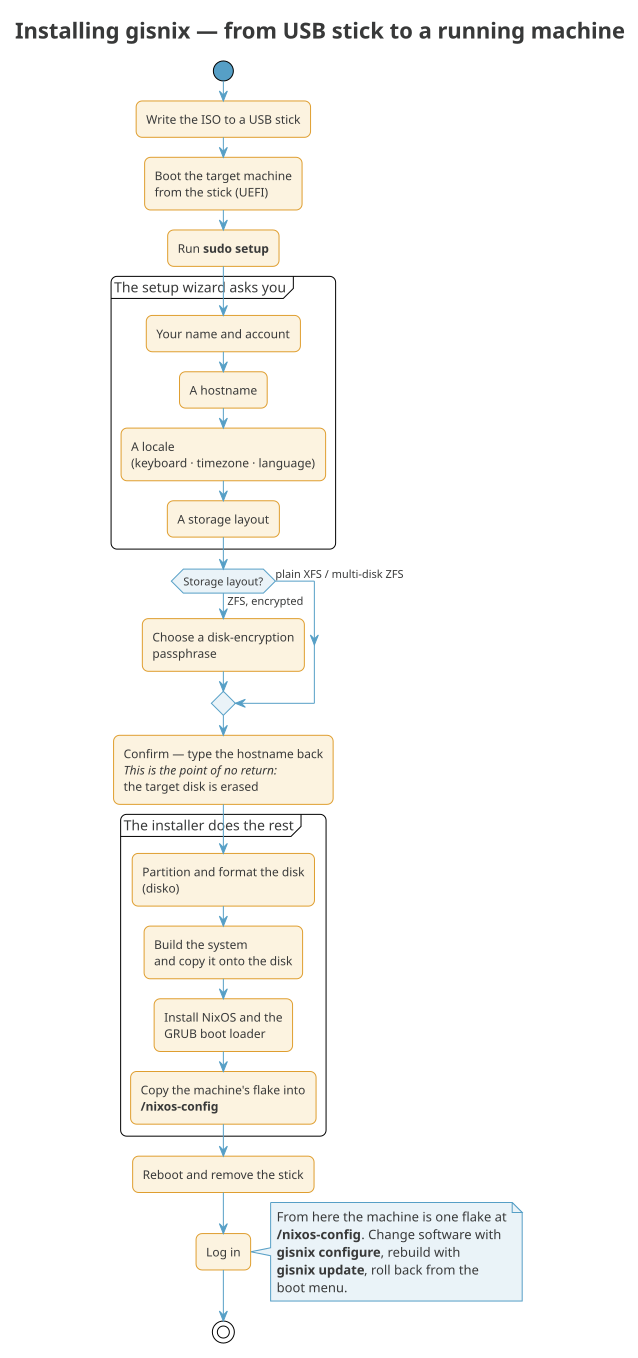
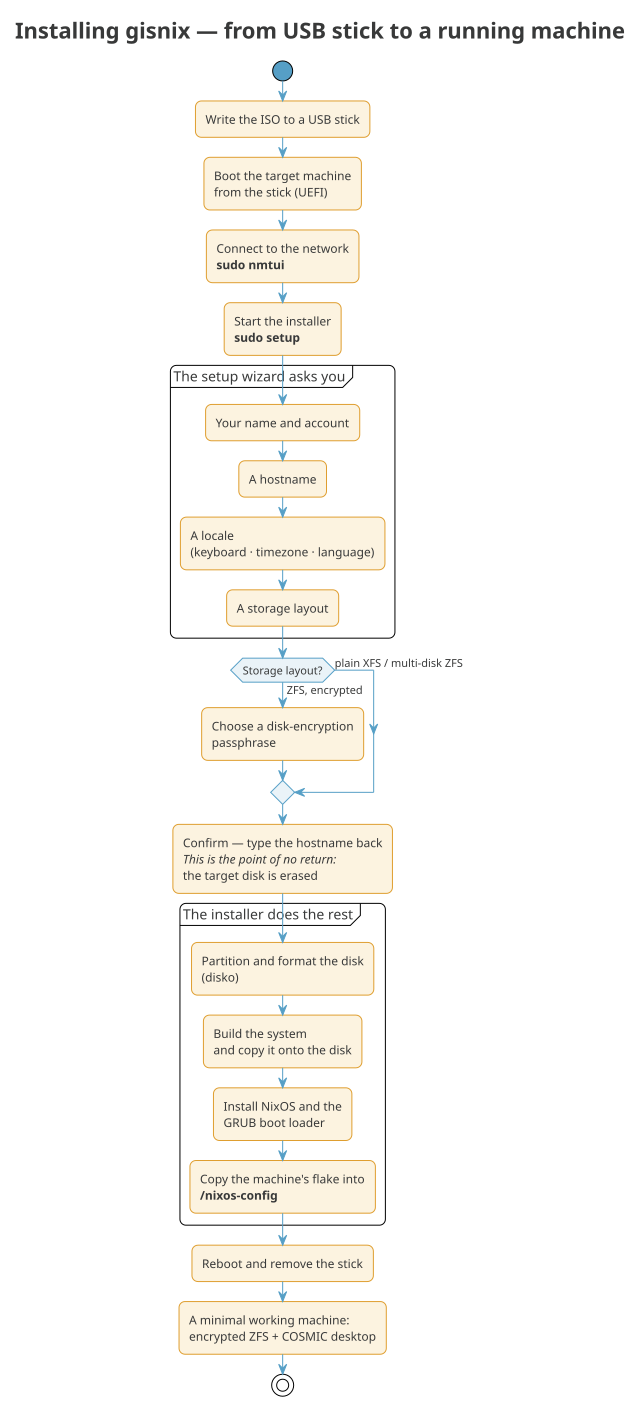
docs+locale: data-loss warnings, right-Ctrl/CPU voxtype, add Indonesia
- Prominent "this erases your disk / no responsibility for lost data"
  danger admonitions on the home page, quickstart (twice — up front and at
  the point of no return), storage modes and the bootable-USB page.
- Push-to-talk documentation follows the code: right Ctrl is the trigger
  (works on every keyboard), and voxtype runs entirely on the CPU via
  whisper.cpp — no GPU or NPU needed. why.md and index.md updated to match.
- Indonesia added to the locale library (id / id-en), 80 locales total.

diff --git a/docs/user/keyboard.md b/docs/user/keyboard.md
@@ -116,36 +116,33 @@ back to typing normally.
 
 ## Push-to-talk (voxtype)
 
-Hold the Menu key (between right Alt and right Ctrl on most boards —
-sometimes labelled with a small menu icon) and speak; release it and
-whatever you said gets typed at your cursor. This is
+Hold **physical right Ctrl** and speak; release it and whatever you said
+gets typed at your cursor. This is
 [voxtype](https://github.com/peteonrails/voxtype), installed and running
 by default alongside kanata.
 
-Not every board has a Menu key — the Framework 16's built-in keyboard is
-one that doesn't. **Physical right Ctrl works too**, as a second trigger:
-hold it and speak, same as Menu. Tapping it still sends a normal Ctrl
-press, so it stays usable as a modifier — but a fast `Ctrl+<key>` chord
-typed *specifically* through the right Ctrl key can be read as a hold
-instead (another key pressed while it's down), which starts push-to-talk
-rather than applying the modifier. Left Ctrl is untouched, so every
-shortcut still works through that key; only the right one changed
-character, in exchange for push-to-talk existing on boards with no Menu
-key at all.
+Right Ctrl is the trigger because it is on *every* keyboard, where the
+Menu key is not — the Framework 16's built-in board, for one, has none —
+so the same gesture works on any machine. Tapping right Ctrl still sends a
+normal Ctrl press, so it stays usable as a modifier; only the *hold* is
+repurposed. One trade-off comes with that: a fast `Ctrl+<key>` chord typed
+*specifically* through the right Ctrl key can be read as a hold (another
+key pressed while it's down) and start push-to-talk instead of applying
+the modifier. Left Ctrl is untouched, so every shortcut still works
+through that key — reach for the left one for chords.
 
-Transcription runs entirely on the machine, via whisper.cpp — nothing you
-say is sent anywhere once it's running (voxtype also supports sending
-audio to a remote API, but gisnix doesn't configure that mode, so it's
-never in play here). The speech model itself (`base.en`) is fetched once,
-the first time the machine has network after install — a
-`voxtype-model-loader` service downloads it before the daemon starts, so
-holding Menu on a machine that has never been online yet does nothing
-until that finishes. After the model is cached on disk, everything is
-offline, including on future boots with no network at all.
-
-A tap of Menu still opens the context menu, and a tap of right Ctrl still
-sends Ctrl, unchanged — only the *hold* was repurposed for this, on
-either key.
+Transcription runs **entirely on the machine's CPU**, via
+[whisper.cpp](https://github.com/ggerganov/whisper.cpp). No GPU or NPU is
+needed or used, so it works the same on a plain laptop as on a workstation
+with a graphics card, and nothing you say leaves the machine. (voxtype can
+also send audio to a remote API, but gisnix does not configure that mode,
+so it is never in play here.) The default model, `base.en`, is chosen to
+transcribe quickly on an ordinary CPU while staying accurate enough for
+dictation; it is fetched once, the first time the machine has network
+after install, by a `voxtype-model-loader` service that runs before the
+daemon starts. Holding right Ctrl on a machine that has never been online
+does nothing until that download finishes. After the model is cached,
+everything is offline, including on later boots with no network at all.
 
 A short sound plays on press (recording started) and a different one on
 release (recording stopped) — audible confirmation you don't have to

diff --git a/docs/user/quickstart.md b/docs/user/quickstart.md
@@ -9,6 +9,14 @@ Here is the shape of it before we begin.
 
 ![Installing gisnix, from USB stick to a running machine](../assets/diagrams/install-journey.svg){ .kz-figure }
 
+!!! danger "Installing gisnix erases the target disk"
+    The installation **completely wipes the disk you install onto**. Every
+    existing partition, operating system and file on it is destroyed, and
+    the data **cannot be recovered** afterwards. Back up anything you care
+    about *before* you start, and be certain you have chosen the right disk.
+    gisnix and Kartoza accept **no responsibility for lost data** — you
+    install at your own risk.
+
 ## 1. Get the installer
 
 Download the ready-made image from the
@@ -77,6 +85,11 @@ It asks you a handful of questions, one screen at a time:
 - **How to lay out the disk** — the recommended choice is ZFS on a single
   disk with encryption, which asks you for a passphrase. (Plain disks and
   multi-disk layouts are offered too; see [Storage modes](../admin/storage-modes.md).)
+
+!!! danger "Point of no return"
+    The next step **erases the disk you selected**. There is no undo. Make
+    sure you picked the right disk and that anything important on it is
+    backed up elsewhere.
 
 When you have answered everything, the wizard asks you to **type the
 hostname back** to confirm. This is the point of no return: from here the

diff --git a/docs/why.md b/docs/why.md
@@ -94,11 +94,12 @@ and cursor movement, so you rarely leave the middle row of the keyboard. It
 is all software, so it works on a laptop's built-in keyboard just as well
 as on an expensive ergonomic one.
 
-There is one more trick worth knowing. Hold the Menu key and speak, and
+There is one more trick worth knowing. Hold **right Ctrl** and speak, and
 gisnix types what you said into whatever you are working in — an email, a
-map's label field, a terminal. Speech is wired in as just another key the
-keyboard understands, so it works everywhere, without each program needing
-to know about it.
+map's label field, a terminal. It runs entirely on the machine's CPU, so
+no graphics card is needed, and it works everywhere: speech is wired in as
+just another key the keyboard understands, without each program needing to
+know about it. (Right Ctrl is the key because every keyboard has one.)
 
 ![kanata sits between the keyboard and every application; speech is a held key](assets/diagrams/keyboard.svg){ .kz-figure }
 

diff --git a/docs/index.md b/docs/index.md
@@ -25,6 +25,12 @@ configuration is one flake.
 
 </div>
 
+!!! danger "Installing gisnix erases the target disk"
+    The installer **completely wipes the disk you install onto** — every
+    existing partition and file is destroyed and **cannot be recovered**.
+    Back up anything you need first, and be sure of the disk you choose.
+    gisnix and Kartoza accept **no responsibility for lost data**.
+
 ## Install on Your Machine
 
 Most users want to grab the ISO and install gisnix on real hardware.
@@ -162,8 +168,8 @@ gisnix machine so muscle memory travels with you.
 ### :material-keyboard: Keyboard-first, with speech
 
 kanata is on by default — home-row mods, a nav layer, chords — no vendor
-hardware needed. Hold the Menu key and voxtype types what you say into
-whatever field your cursor is in, anywhere on the desktop.
+hardware needed. Hold right Ctrl and voxtype types what you say into
+whatever field your cursor is in — on the CPU, no graphics card needed.
 
 </div>
 

diff --git a/docs/user/bootable-usb.md b/docs/user/bootable-usb.md
@@ -5,6 +5,12 @@ page](https://github.com/kartoza/gisnix/releases/latest) or [built
 yourself](quickstart.md#1-get-the-installer)) and a USB drive of 4GB or more —
 everything on it will be erased.
 
+!!! danger "Two disks get erased here — pick the right ones"
+    Writing the ISO **erases the USB stick**, and later the installer
+    **erases the machine's disk** you install onto. Both are irreversible.
+    Double-check the device each time. gisnix and Kartoza accept **no
+    responsibility for lost data**.
+
 === "Linux"
 
     **balenaEtcher** (GUI, works the same on every OS) — download from

diff --git a/docs/admin/storage-modes.md b/docs/admin/storage-modes.md
@@ -1,5 +1,11 @@
 # Storage modes
 
+!!! danger "Every storage mode erases the disk"
+    Whichever layout you choose, the installer **wipes the target disk
+    completely** — all existing data is destroyed and cannot be recovered.
+    Back up first, and choose the disk carefully. gisnix and Kartoza accept
+    **no responsibility for lost data**.
+
 The installer offers three storage modes, all built from the same disko
 templates under `templates/disko/` (see
 [Architecture](../developer/architecture.md) for how a host's `disks.nix`
